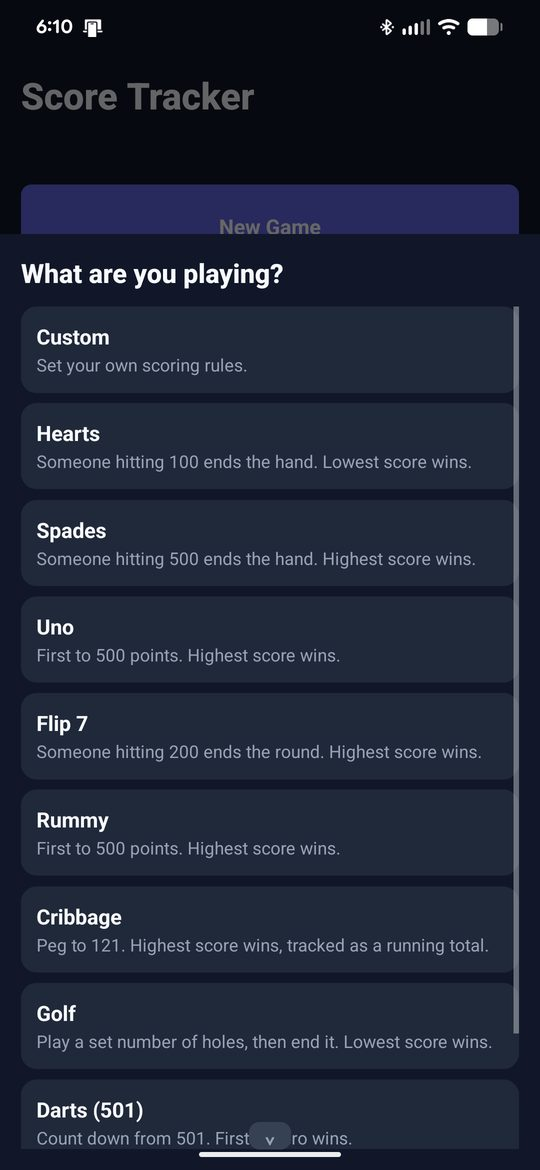
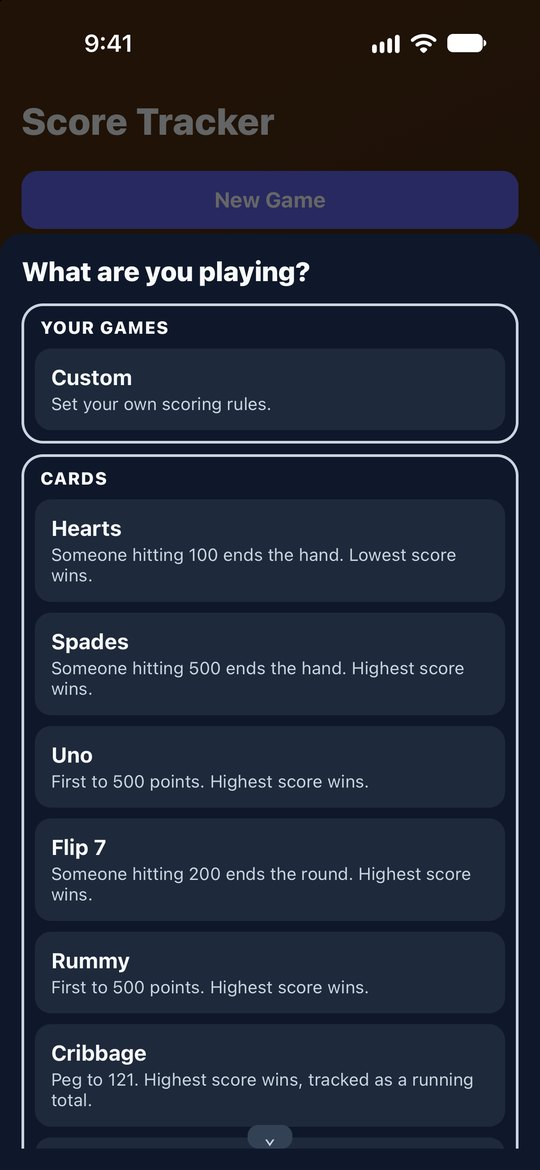
Show 1.4.0: the score keypad, Basketball, sideways and iPad
New screenshots from the 1.4.0 iPhone set, and copy for the keypad, the
one-tap buttons, playing sideways and iPad. Two pairs of cards merge to
keep the grid at nine. Merge when 1.4.0 is live, not before.

diff --git a/index.html b/index.html
@@ -4,7 +4,7 @@
 <meta charset="utf-8">
 <meta name="viewport" content="width=device-width, initial-scale=1">
 <title>CudaFishGames — Score Tracker</title>
-<meta name="description" content="Score Tracker: keep score for card games, dice games, dominoes, darts, mini golf or any game with your own rules. No ads, no accounts, works completely offline. On Android and iPhone. From CudaFishGames.">
+<meta name="description" content="Score Tracker: keep score for card games, dice games, dominoes, darts, mini golf, basketball or any game with your own rules. No ads, no accounts, works completely offline. On Android, iPhone and iPad. From CudaFishGames.">
 <meta property="og:title" content="Score Tracker">
 <meta property="og:description" content="Keep score for any game. No ads, no accounts, works completely offline.">
 <meta property="og:type" content="website">
@@ -100,8 +100,8 @@
     <img class="app-icon" src="assets/icon.png" alt="Score Tracker icon">
     <div>
       <h1>Score Tracker</h1>
-      <p class="tagline">Keep score for card games, dice games, dominoes, darts and mini golf — or
-      any game with your own rules.<br>No ads. No accounts. No internet.</p>
+      <p class="tagline">Keep score for card games, dice games, dominoes, darts, mini golf and
+      basketball — or any game with your own rules.<br>No ads. No accounts. No internet.</p>
       <div class="stores">
         <a href="https://apps.apple.com/app/id6816261044">
           <img class="badge-apple" src="assets/badge-app-store.svg" alt="Download on the App Store">
@@ -123,9 +123,15 @@
     <div class="grid">
       <div class="card">
         <h3>Games already set up</h3>
-        <p>Hearts, Spades, Uno, Flip&nbsp;7, Rummy, Cribbage, Golf, Darts, Mini Golf, three ways
-        to score dominoes, and the dice games Pig, Farkle, Bunco, Shut the Box and Chicago
-        arrive with the right rules. Or set your own.</p>
+        <p>Hearts, Spades, Uno, Flip&nbsp;7, Rummy, Cribbage, Golf, Darts, Mini Golf, Basketball,
+        three ways to score dominoes, and the dice games Pig, Farkle, Bunco, Shut the Box and
+        Chicago arrive with the right rules. Or set your own.</p>
+      </div>
+      <div class="card">
+        <h3>Fast to score</h3>
+        <p>A keypad made for scores, with a minus key and Next to move round the table.
+        Basketball, Cribbage, Bunco and All Fives add one-tap buttons for their usual
+        points.</p>
       </div>
       <div class="card">
         <h3>Rounds and history</h3>
@@ -143,14 +149,9 @@
         energy and experience.</p>
       </div>
       <div class="card">
-        <h3>Save or don't</h3>
-        <p>Name a game and it saves as you play. Or use Quick score, which keeps nothing at
-        all.</p>
-      </div>
-      <div class="card">
-        <h3>Share the result</h3>
-        <p>Send the final standings as a message, or as a score card image that shows off
-        the winner.</p>
+        <h3>Save it, share it</h3>
+        <p>Name a game and it saves as you play, or keep nothing at all. Send the final
+        standings as a message, or as a score card that shows off the winner.</p>
       </div>
       <div class="card">
         <h3>Make it yours</h3>
@@ -158,13 +159,14 @@
         much or as little as you like.</p>
       </div>
       <div class="card">
-        <h3>Who goes first?</h3>
-        <p>Roll a d20 or a d6, flip a coin, or let the app pick who starts, right from the
-        scoreboard.</p>
+        <h3>Sideways or on iPad</h3>
+        <p>Turn your phone sideways to keep every player beside the keypad. On an iPad it
+        spreads into two columns.</p>
       </div>
       <div class="card">
         <h3>Built for the table</h3>
-        <p>Keeps the screen awake between turns. Light, dark, or follow your phone.</p>
+        <p>Roll a die, flip a coin, or let the app pick who goes first. The screen stays awake
+        between turns. Light, dark, or follow your phone.</p>
       </div>
     </div>
   </div>
@@ -175,8 +177,8 @@
     <h2>A look at it</h2>
     <p class="lede">Everything runs on your device.</p>
     <div class="shots">
-      <figure class="shot"><img src="assets/shot-scores.jpg" alt="Scoring screen with four players and a winner banner"><span>Keep score for any game</span></figure>
-      <figure class="shot"><img src="assets/shot-games.jpg" alt="List of built-in games with their rules"><span>Games already set up</span></figure>
+      <figure class="shot"><img src="assets/shot-scores.jpg" alt="Scoring screen with the score keypad open, a negative score keyed in"><span>Keep score for any game</span></figure>
+      <figure class="shot"><img src="assets/shot-games.jpg" alt="Built-in games grouped into cards, dice, dominoes and more"><span>Games already set up</span></figure>
       <figure class="shot"><img src="assets/shot-history.jpg" alt="Per-round score history table"><span>Every round, banked</span></figure>
       <figure class="shot"><img src="assets/shot-commander.jpg" alt="Commander life totals"><span>Life totals and commander damage</span></figure>
     </div>
